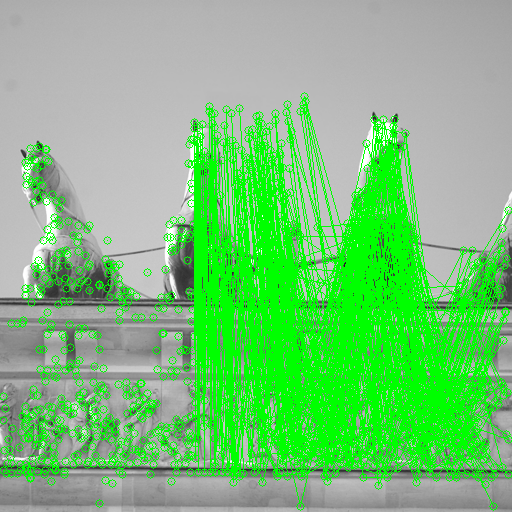
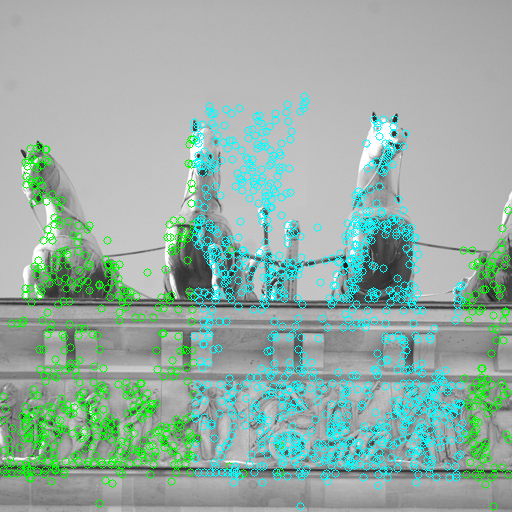
03/12/2021
21:22 Stuck di cut data

Changed region(s): [[0.375, 0.1875, 1.0, 0.9688], [0.5625, 0.9688, 0.5938, 1.0]]

diff --git a/code/SIFT_detection.py b/code/SIFT_detection.py
@@ -7,7 +7,7 @@ class sift_model:
     def __init__(self, img_1, img_2):
         self.img_1_path = img_1
         self.img_2_path = img_2
-        self.MIN_MATCH_COUNT = 10
+        self.MIN_MATCH_COUNT = 3
         self.sift = cv2.SIFT_create()
         # builtin features matcher function
 
@@ -85,19 +85,14 @@ class sift_model:
     def affine_ransac(self, kp1, kp2, best_match):
         final_matches = list()
         if len(best_match) > self.MIN_MATCH_COUNT:
-            src_pts = np.float32([kp1[m.queryIdx].pt for m in best_match]).reshape(
-                -1, 1, 2
-            )
-            dst_pts = np.float32([kp2[m.trainIdx].pt for m in best_match]).reshape(
-                -1, 1, 2
-            )
-
+            src_pts = np.float32([kp1[m.queryIdx].pt for m in best_match])
+            dst_pts = np.float32([kp2[m.trainIdx].pt for m in best_match])
             retval, inliers = cv2.estimateAffine2D(
                 src_pts,
                 dst_pts,
                 method=cv2.RANSAC,
                 ransacReprojThreshold=3,
-                maxIters=100,
+                maxIters=1000,
                 confidence=0.99,
             )
 
@@ -155,9 +150,8 @@ class sift_model:
         plt.show()
         return
 
-    def show_final_matches(self, keypoints_1, keypoints_2, final_matches, retval):
+    def show_final_matches(self, keypoints, final_matches, retval):
         img_RGB = cv2.cvtColor(self.img_2, cv2.COLOR_GRAY2RGB)
-        res = cv2.matchTemplate(img_RGB, self.img_2, eval("cv2.TM_CCORR_NORMED"))
 
         list_point1 = []
         list_point2 = []
@@ -168,8 +162,8 @@ class sift_model:
             point2 = j.queryIdx
 
             # Get the coordinates, x - columns, y - rows
-            (x1, y1) = keypoints_2[point1].pt
-            (x2, y2) = keypoints_1[point2].pt
+            (x1, y1) = keypoints[point1].pt
+            (x2, y2) = keypoints[point2].pt
 
             # Append to each list
             list_point1.append((int(x1), int(y1)))
@@ -177,22 +171,24 @@ class sift_model:
 
             # Draw a small circle at both co-ordinates: radius 4, colour green, thickness = 1
             # copy keypoints circles
-            cv2.circle(img_RGB, (int(x1), int(y1)), 4, (0, 255, 0), 1)
+            cv2.circle(img_RGB, (int(x1), int(y1)), 4, (255, 0, 0), 1)
             # original keypoints circles
             cv2.circle(img_RGB, (int(x2), int(y2)), 4, (0, 255, 0), 1)
 
             # Draw a line in between the two points, thickness = 1, colour green
-            cv2.line(img_RGB, (int(x1), int(y1)), (int(x2), int(y2)), (0, 255, 0), 1)
+            # cv2.line(img_RGB, (int(x1), int(y1)), (int(x2), int(y2)), (0, 255, 0), 1)
 
+        # 6) Computing region correlation map
+        # 6.1) WrapAffine
         wrapAffine_img = cv2.warpAffine(self.img_2, retval, (self.w, self.h))
-        cv2.imwrite("final_result.png", wrapAffine_img)
+        cv2.imwrite("res.png", wrapAffine_img)
 
         # 3) Output
-        cv2.imwrite("final_matches.png", res)
+        # cv2.imshow("result", img_RGB)
+        cv2.imwrite("final_matches.png", img_RGB)
         # cv2.imshow("corelation", img_correlation_map)
         cv2.waitKey(0)
         cv2.destroyAllWindows()
-
         return
 
 
@@ -229,7 +225,7 @@ def main():
     final_matches, retval = model.affine_ransac(keypoints_1, keypoints_2, good_match)
 
     # getting final_matches location, un-comment to see result
-    model.show_final_matches(keypoints_1, keypoints_2, final_matches, retval)
+    model.show_final_matches(keypoints_1, final_matches, retval)
 
 
 if __name__ == "__main__":
